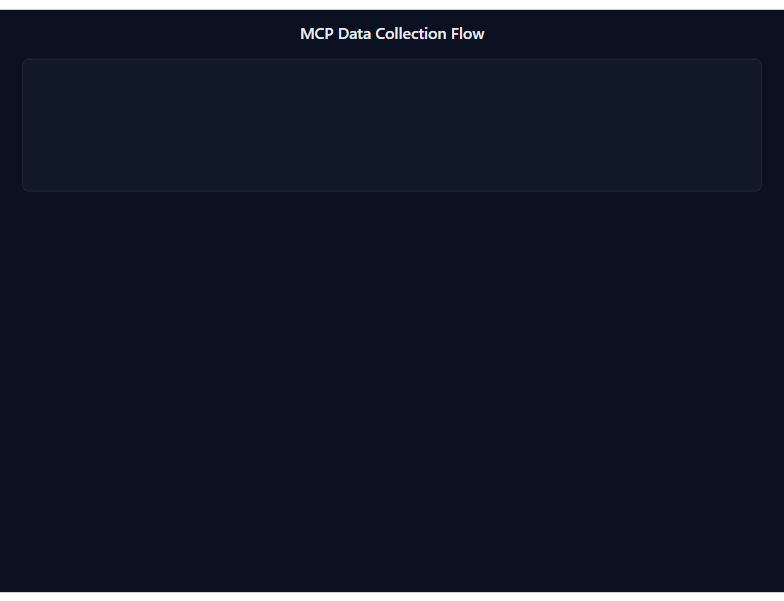
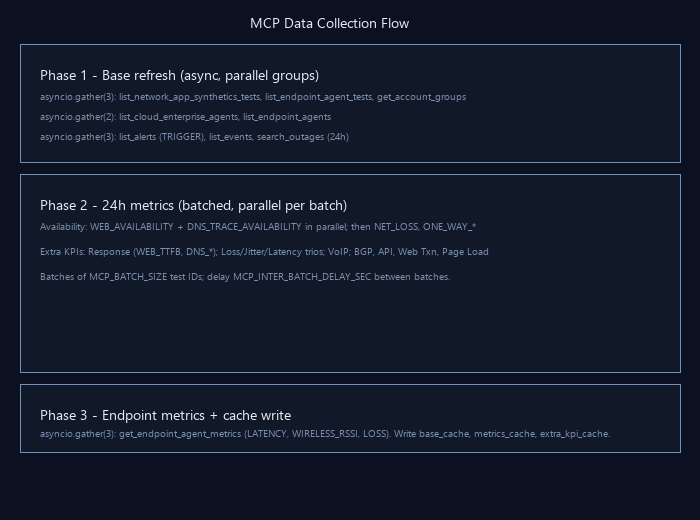
diagram updates

diff --git a/scripts/generate_diagrams.py b/scripts/generate_diagrams.py
@@ -1,0 +1,200 @@
+#!/usr/bin/env python3
+"""
+Generate docs/diagrams/*.png using Pillow. Run from project root:
+  pip install -r requirements-diagrams.txt
+  python scripts/generate_diagrams.py
+"""
+from __future__ import annotations
+
+import os
+import sys
+from pathlib import Path
+
+try:
+    from PIL import Image, ImageDraw, ImageFont
+except ImportError:
+    print("Install Pillow: pip install -r requirements-diagrams.txt", file=sys.stderr)
+    sys.exit(1)
+
+# Colors (from original SVG theme)
+BG = (11, 17, 32)           # #0B1120
+BOX_BG = (26, 35, 50)       # #1A2332
+BOX_BORDER = (4, 159, 217)  # #049FD9
+TEXT = (232, 236, 244)      # #E8ECF4
+MUTED = (123, 143, 173)     # #7B8FAD
+GREEN = (0, 214, 143)       # #00D68F
+
+PROJECT_ROOT = Path(__file__).resolve().parent.parent
+OUT_DIR = PROJECT_ROOT / "docs" / "diagrams"
+
+
+def get_font(size: int = 11):
+    """Load a readable font; fall back to default."""
+    candidates = []
+    if sys.platform == "win32":
+        win = Path(os.environ.get("WINDIR", "C:/Windows"))
+        candidates.extend([
+            win / "Fonts" / "segoeui.ttf",
+            win / "Fonts" / "arial.ttf",
+            win / "Fonts" / "Arial.ttf",
+        ])
+    elif sys.platform == "darwin":
+        candidates.append(Path("/System/Library/Fonts/Helvetica.ttc"))
+    candidates.extend([
+        Path("/usr/share/fonts/truetype/dejavu/DejaVuSans.ttf"),
+        Path("/usr/share/fonts/truetype/liberation/LiberationSans-Regular.ttf"),
+    ])
+    for p in candidates:
+        try:
+            if p.exists():
+                return ImageFont.truetype(str(p), size)
+        except OSError:
+            pass
+    return ImageFont.load_default()
+
+
+def draw_arrow(draw, x1, y1, x2, y2, color=BOX_BORDER, width=2):
+    """Draw line and simple arrowhead."""
+    draw.line([(x1, y1), (x2, y2)], fill=color, width=width)
+    dx, dy = x2 - x1, y2 - y1
+    import math
+    ang = math.atan2(dy, dx)
+    size = 8
+    for a in (ang + 2.8, ang - 2.8):
+        ax = x2 + size * math.cos(a)
+        ay = y2 + size * math.sin(a)
+        draw.line([(x2, y2), (ax, ay)], fill=color, width=width)
+
+
+def draw_box(draw, x, y, w, h, label: str, lines: list[str], font, font_small):
+    """Draw rounded rect and text."""
+    draw.rectangle([x, y, x + w, y + h], outline=BOX_BORDER, fill=BOX_BG, width=2)
+    draw.text((x + w // 2 - len(label) * 3, y + 8), label, fill=TEXT, font=font)
+    yy = y + 28
+    for line in lines[:8]:
+        draw.text((x + 10, yy), line[:40], fill=MUTED, font=font_small)
+        yy += 14
+
+
+def diagram_01_system_overview(draw, font, font_small, w, h):
+    """System overview: Browser, Flask, ThousandEyes MCP."""
+    draw.rectangle([0, 0, w, h], fill=BG)
+    draw.text((w // 2 - 120, 12), "MCP Dashboard - System Overview", fill=TEXT, font=font)
+    # Browser
+    draw_box(draw, 24, 44, 160, 120, "Browser (Customer)", [
+        "noc_dashboard.html", "Leaflet map, KPIs,", "tabs, modals",
+        "Poll /api/data every", "refresh_interval_min"
+    ], font, font_small)
+    # Flask
+    draw_box(draw, 220, 44, 240, 200, "Flask Server (server.py)", [
+        "Host 0.0.0.0 :8000", "In-memory caches:",
+        "base_cache, metrics_cache,", "extra_kpi_cache",
+        "APScheduler:", "scheduled_refresh() every", "REFRESH_MINUTES"
+    ], font, font_small)
+    # MCP
+    draw_box(draw, 496, 44, 200, 200, "ThousandEyes MCP", [
+        "api.thousandeyes.com/mcp", "Streamable HTTP", "Bearer TE_TOKEN",
+        "Tools: list tests,", "agents, alerts, events,", "outages, get_*_metrics"
+    ], font, font_small)
+    # Arrows
+    draw_arrow(draw, 184, 100, 212, 100)
+    draw.text((192, 88), "GET /, /api/data", fill=MUTED, font=font_small)
+    draw_arrow(draw, 460, 140, 490, 140, GREEN)
+    draw.text((465, 128), "MCP tool calls", fill=MUTED, font=font_small)
+    # Legend
+    draw.rectangle([24, 278, w - 24, h - 12], fill=(17, 24, 39), outline=MUTED)
+    draw.text((40, 292), "All data is fetched by the server via MCP; browser only talks to the server.", fill=MUTED, font=font_small)
+    draw.text((40, 308), "One scheduler job: base refresh then 24h metrics. POST /api/refresh runs same.", fill=MUTED, font=font_small)
+
+
+def diagram_02_mcp_flow(draw, font, font_small, w, h):
+    """MCP data collection flow."""
+    draw.rectangle([0, 0, w, h], fill=BG)
+    draw.text((w // 2 - 100, 12), "MCP Data Collection Flow", fill=TEXT, font=font)
+    y = 44
+    draw.rectangle([20, y, w - 20, y + 118], fill=(17, 24, 39), outline=MUTED)
+    draw.text((40, y + 20), "Phase 1 - Base refresh (async, parallel groups)", fill=TEXT, font=font)
+    draw.text((40, y + 45), "asyncio.gather(3): list_network_app_synthetics_tests, list_endpoint_agent_tests, get_account_groups", fill=MUTED, font=font_small)
+    draw.text((40, y + 65), "asyncio.gather(2): list_cloud_enterprise_agents, list_endpoint_agents", fill=MUTED, font=font_small)
+    draw.text((40, y + 85), "asyncio.gather(3): list_alerts (TRIGGER), list_events, search_outages (24h)", fill=MUTED, font=font_small)
+    y += 130
+    draw.rectangle([20, y, w - 20, y + 198], fill=(17, 24, 39), outline=MUTED)
+    draw.text((40, y + 20), "Phase 2 - 24h metrics (batched, parallel per batch)", fill=TEXT, font=font)
+    draw.text((40, y + 45), "Availability: WEB_AVAILABILITY + DNS_TRACE_AVAILABILITY in parallel; then NET_LOSS, ONE_WAY_*", fill=MUTED, font=font_small)
+    draw.text((40, y + 70), "Extra KPIs: Response (WEB_TTFB, DNS_*); Loss/Jitter/Latency trios; VoIP; BGP, API, Web Txn, Page Load", fill=MUTED, font=font_small)
+    draw.text((40, y + 95), "Batches of MCP_BATCH_SIZE test IDs; delay MCP_INTER_BATCH_DELAY_SEC between batches.", fill=MUTED, font=font_small)
+    y += 210
+    draw.rectangle([20, y, w - 20, y + 68], fill=(17, 24, 39), outline=MUTED)
+    draw.text((40, y + 20), "Phase 3 - Endpoint metrics + cache write", fill=TEXT, font=font)
+    draw.text((40, y + 42), "asyncio.gather(3): get_endpoint_agent_metrics (LATENCY, WIRELESS_RSSI, LOSS). Write base_cache, metrics_cache, extra_kpi_cache.", fill=MUTED, font=font_small)
+
+
+def diagram_03_request_flow(draw, font, font_small, w, h):
+    """Request flow: user, browser, Flask, caches."""
+    draw.rectangle([0, 0, w, h], fill=BG)
+    draw.text((w // 2 - 110, 12), "Request Flow - Dashboard Load & Polling", fill=TEXT, font=font)
+    draw_box(draw, 24, 44, 100, 44, "User", ["opens URL"], font, font_small)
+    draw_box(draw, 24, 108, 100, 100, "Browser", [
+        "1. GET /", "2. GET /api/data", "   ?window=24h", "3. Repeat after", "   refresh_interval"
+    ], font, font_small)
+    draw_box(draw, 148, 44, 280, 200, "Flask (server.py)", [
+        "GET / -> send_file(noc_dashboard.html)",
+        "GET /api/data -> validate window; read base + metrics + extra_kpi caches",
+        "Return JSON with refresh_interval_minutes",
+        "Optional: GET /api/fetch_window for on-demand metrics"
+    ], font, font_small)
+    draw_box(draw, 452, 44, 120, 100, "In-memory", ["base_cache", "metrics_cache", "extra_kpi_cache"], font, font_small)
+    draw_arrow(draw, 124, 66, 140, 66)
+    draw_arrow(draw, 124, 155, 140, 155)
+    draw_arrow(draw, 428, 92, 444, 92, GREEN)
+    draw_arrow(draw, 428, 155, 124, 155)
+    draw.rectangle([24, 268, w - 24, h - 12], fill=(17, 24, 39), outline=MUTED)
+    draw.text((40, 282), "Other: GET /api/health (liveness, base_cache_ready); GET /api/agent_perf/<id>; POST /api/refresh.", fill=MUTED, font=font_small)
+
+
+def diagram_04_deployment(draw, font, font_small, w, h):
+    """Deployment topology."""
+    draw.rectangle([0, 0, w, h], fill=BG)
+    draw.text((w // 2 - 130, 12), "Deployment - Sales Engineer Install", fill=TEXT, font=font)
+    draw.rectangle([24, 42, w - 24, 244], fill=(17, 24, 39), outline=MUTED)
+    draw.text((40, 62), "Host (Windows / macOS / Linux). Outbound HTTPS to api.thousandeyes.com required.", fill=MUTED, font=font_small)
+    draw_box(draw, 40, 98, 280, 128, "Python 3.10+ venv", [
+        ".venv/  |  pip install -r requirements.txt",
+        "flask, mcp[cli], python-dotenv, apscheduler, httpx",
+        "Run via scripts/start-stop.ps1 or start-stop.sh --startup"
+    ], font, font_small)
+    draw_box(draw, 340, 98, 256, 128, "Environment / .env", [
+        "TE_TOKEN (required)", "REFRESH_MINUTES=15", "PORT=8000",
+        "MCP_BATCH_SIZE, MCP_INTER_BATCH_DELAY_SEC"
+    ], font, font_small)
+    draw.rectangle([40, 250, w - 40, 332], fill=BOX_BG, outline=BOX_BORDER)
+    draw.text((w // 2 - 180, 268), "Server: 0.0.0.0:8000 (set PORT to override).", fill=TEXT, font=font)
+    draw.text((w // 2 - 200, 290), "Start: scripts/start-stop.ps1 --startup  or  ./scripts/start-stop.sh --startup", fill=MUTED, font=font_small)
+    draw.text((w // 2 - 180, 308), "Health: GET http://<host>:8000/api/health", fill=MUTED, font=font_small)
+
+
+def main():
+    OUT_DIR.mkdir(parents=True, exist_ok=True)
+    font = get_font(14)
+    font_small = get_font(10)
+
+    diagrams = [
+        ("01-system-overview.png", 720, 380, diagram_01_system_overview),
+        ("02-mcp-collection-flow.png", 700, 520, diagram_02_mcp_flow),
+        ("03-request-flow.png", 620, 400, diagram_03_request_flow),
+        ("04-deployment.png", 640, 360, diagram_04_deployment),
+    ]
+
+    for name, width, height, draw_fn in diagrams:
+        img = Image.new("RGB", (width, height), BG)
+        draw = ImageDraw.Draw(img)
+        draw_fn(draw, font, font_small, width, height)
+        path = OUT_DIR / name
+        img.save(path, "PNG")
+        print(f"Wrote {path}")
+
+    print("Done. Refresh docs to view the diagrams.")
+
+
+if __name__ == "__main__":
+    main()

diff --git a/README.md b/README.md
@@ -48,37 +48,24 @@ Optional: copy `.env` in the project root (loaded by `python-dotenv`); keep `.en
 
 ## Deploy with a Python virtual environment (venv)
 
-### Windows (PowerShell)
+Configure the environment **before** starting the server. Either set variables in your shell or use a `.env` file in the project root (see below). The startup script checks that `TE_TOKEN` is set and loads `.env` when you run it.
+
+### 1. Create venv and install dependencies
+
+**Windows (PowerShell):**
 
 ```powershell
 cd path\to\mcp-dashboard
 
-# Create venv
 python -m venv .venv
-
-# Activate (PowerShell)
 .\.venv\Scripts\Activate.ps1
+# If execution policy blocks: Set-ExecutionPolicy -Scope CurrentUser RemoteSigned
 
-# If execution policy blocks activation:
-# Set-ExecutionPolicy -Scope CurrentUser RemoteSigned
-
-# Install dependencies (use ci-style install when you have a lockfile; here pip install is fine)
 python -m pip install --upgrade pip
 pip install -r requirements.txt
-
-# Token: set for this session or use a .env file (not committed)
-$env:TE_TOKEN = "your-thousandeyes-token"
-# optional:
-$env:REFRESH_MINUTES = "15"
-
-python server.py
 ```
 
-Open **http://127.0.0.1:8000/** (or from another machine: `http://<host>:8000/`).
-
-Deactivate when done: `deactivate`.
-
-### macOS / Linux
+**macOS / Linux:**
 
 ```bash
 cd /path/to/mcp-dashboard
@@ -88,22 +75,48 @@ source .venv/bin/activate
 
 python -m pip install --upgrade pip
 pip install -r requirements.txt
-
-export TE_TOKEN="your-thousandeyes-token"
-# optional:
-export REFRESH_MINUTES=15
-
-python server.py
 ```
 
-### `.env` example (local only; do not commit)
+### 2. Configure environment (before startup)
+
+Set **TE_TOKEN** (required) and any optional variables. Do this **before** running the startup script.
+
+**Option A — `.env` file (recommended):** Copy `.env.example` to `.env` in the project root, edit it, and do not commit it. The startup script loads `.env` automatically.
 
 ```env
 TE_TOKEN=your-thousandeyes-token
 REFRESH_MINUTES=15
 ```
 
-**Optional start/stop scripts:** Use `scripts/start-stop.ps1` (Windows) or `scripts/start-stop.sh` (macOS/Linux) with `--startup` to check env and run the server in the background, and `--shutdown` to stop it. See `scripts/README.md`.
+**Option B — Shell:**
+
+- **PowerShell:** `$env:TE_TOKEN = "your-token"` (and optionally `$env:REFRESH_MINUTES = "15"`, `$env:PORT = "8000"`).
+- **Bash:** `export TE_TOKEN="your-token"` (and optionally `export REFRESH_MINUTES=15`, `export PORT=8000`).
+
+### 3. Start and stop the server
+
+From the project root, with the venv activated and environment configured:
+
+**Windows:**
+
+```powershell
+.\scripts\start-stop.ps1 --startup
+```
+
+**macOS / Linux:**
+
+```bash
+./scripts/start-stop.sh --startup
+```
+
+The script checks that `TE_TOKEN` is set, then starts the server in the background. Open **http://127.0.0.1:8000/** (or `http://<host>:8000/` from another machine; port is from `PORT` or 8000).
+
+To stop the server:
+
+**Windows:** `.\scripts\start-stop.ps1 --shutdown`  
+**macOS / Linux:** `./scripts/start-stop.sh --shutdown`
+
+See **scripts/README.md** for more detail.
 
 ### Production notes
 

diff --git a/docs/diagrams/README.md b/docs/diagrams/README.md
@@ -8,3 +8,14 @@ PNG diagrams for the [Architecture Guide](../ARCHITECTURE.md). They render corre
 | `02-mcp-collection-flow.png` | MCP data collection: base refresh (parallel), metrics (batched, parallel per batch). |
 | `03-request-flow.png` | Request flow: dashboard load and polling, API usage. |
 | `04-deployment.png` | Deployment: host, venv, env, port, health. |
+
+## Regenerating the PNGs
+
+Diagrams are generated with Python and Pillow. From the project root:
+
+```bash
+pip install -r requirements-diagrams.txt
+python scripts/generate_diagrams.py
+```
+
+This overwrites the four PNGs in `docs/diagrams/`.

diff --git a/docs/ARCHITECTURE.md b/docs/ARCHITECTURE.md
@@ -216,7 +216,7 @@ See the project **README** for exact venv and run commands per platform.
 
 ## 10. Diagram Files (PNG)
 
-All diagrams are in **docs/diagrams/** as PNGs and render reliably on GitHub and in docs.
+All diagrams are in **docs/diagrams/** as PNGs and render reliably on GitHub and in docs. To regenerate them, run `pip install -r requirements-diagrams.txt` and `python scripts/generate_diagrams.py` from the project root.
 
 | File | Description |
 |------|-------------|
